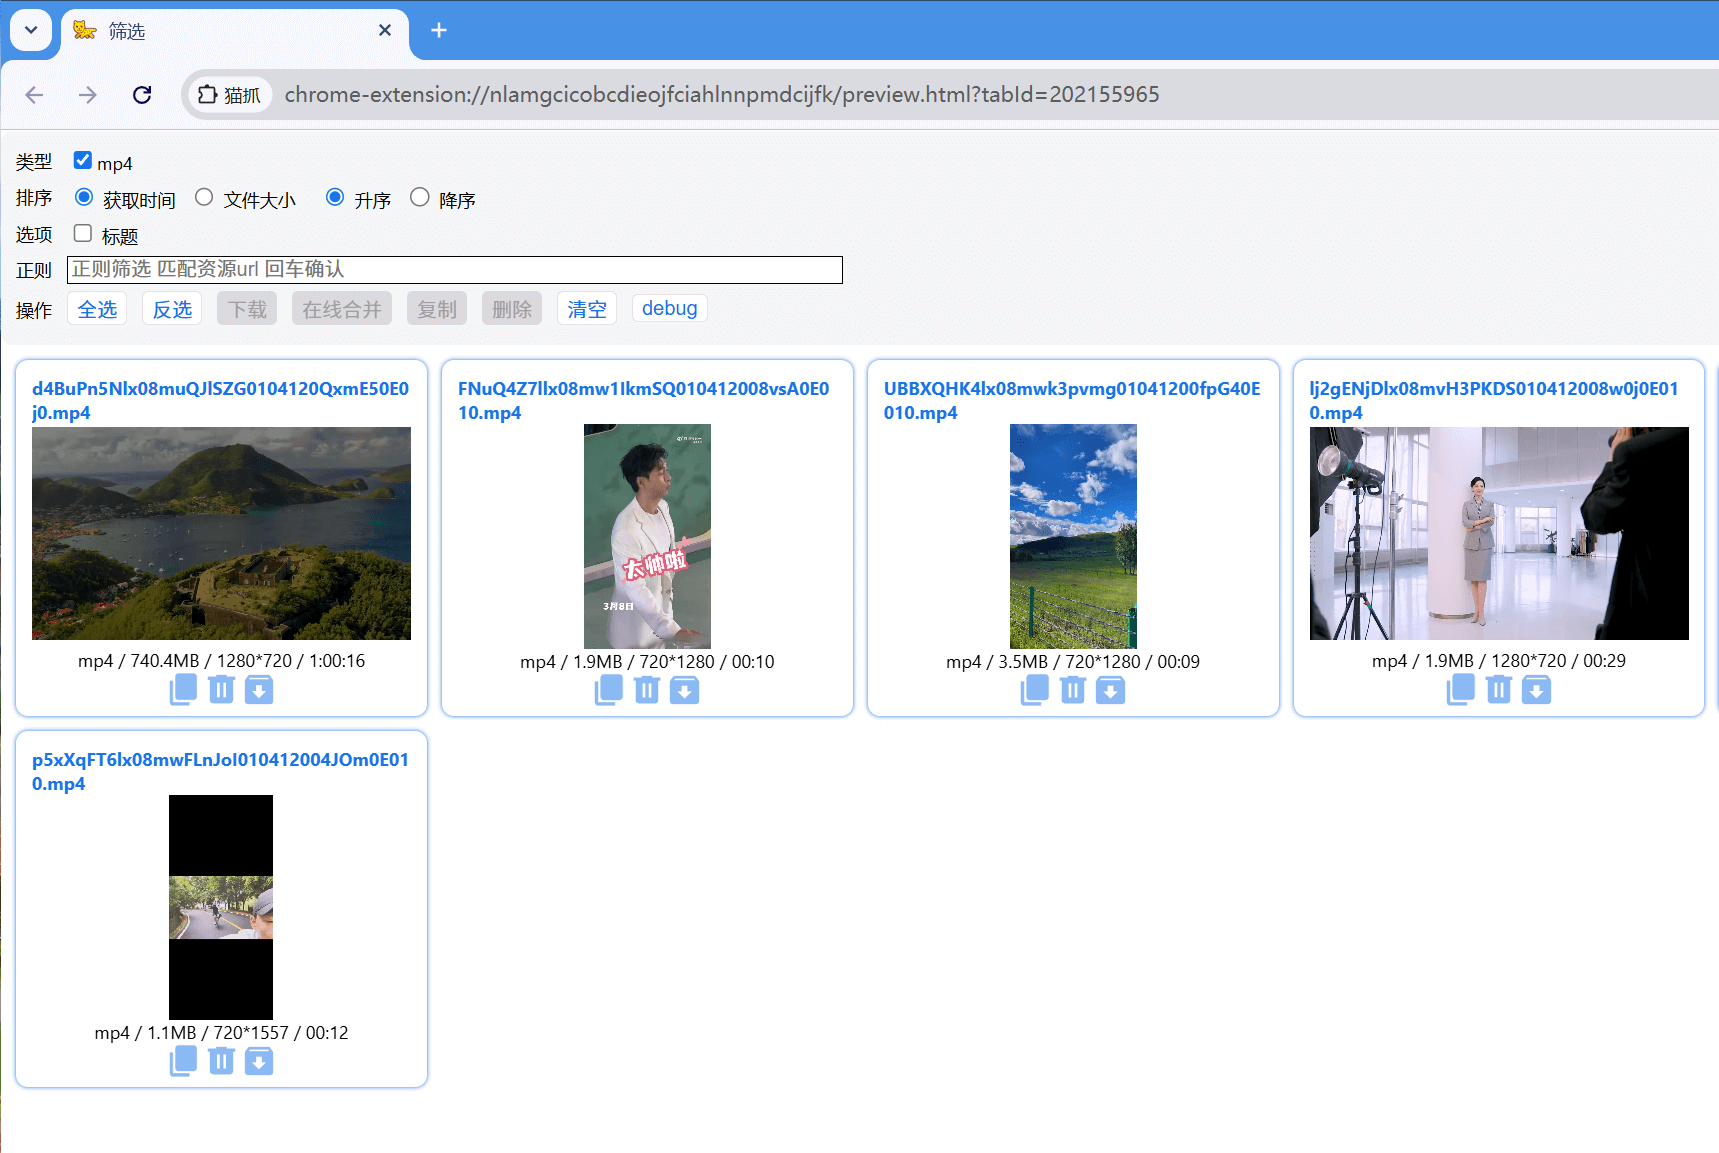
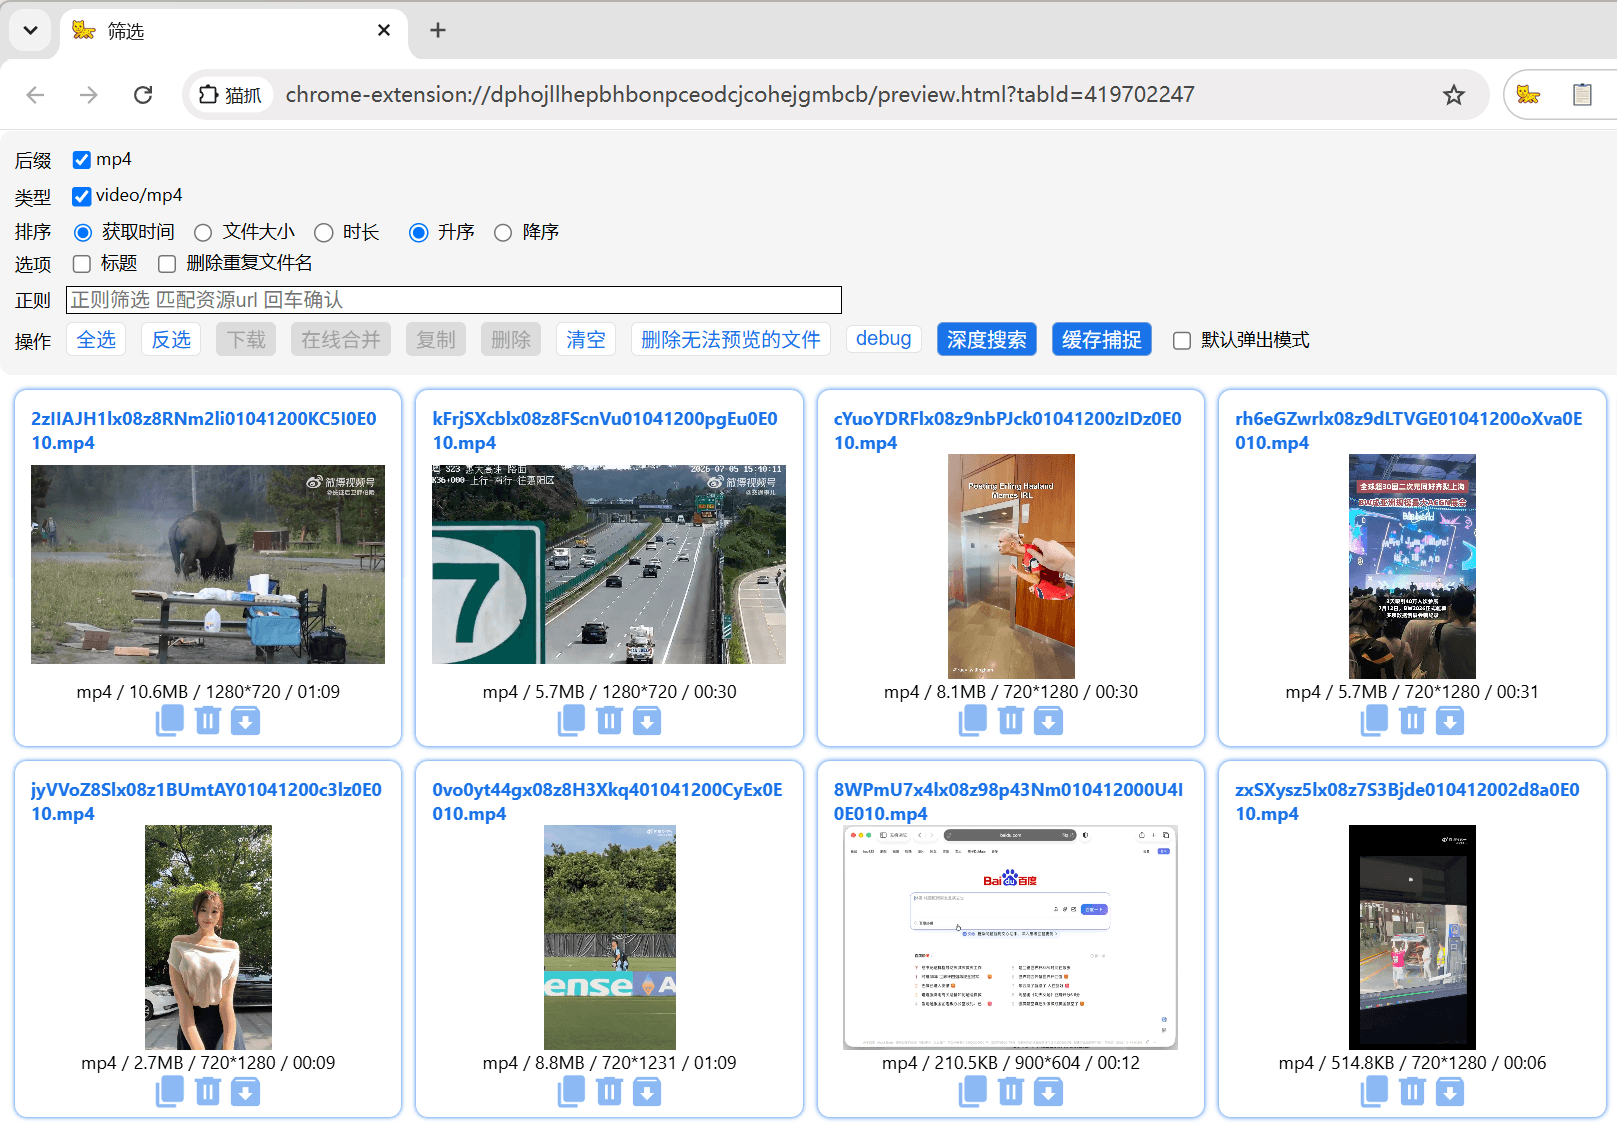
png

diff --git a/src/en/docs/m3u8parse.md b/src/en/docs/m3u8parse.md
@@ -104,6 +104,8 @@ After merging, directly send to the online ffmpeg website file area without auto
 
 ## Parser Entry
 
+![Parser Entry](/assets/m3u8index.png)
+
 Enter the parser entry via More Features - M3U8 Parser.
 
 Supports input of m3u8 links / m3u8 file content / list of segment URLs for parsing.

diff --git a/src/docs/m3u8parse.md b/src/docs/m3u8parse.md
@@ -103,6 +103,7 @@ m3u8合并下载 需要有足够的内存，否则可能会崩溃。建议使用
 合并后直接发送到在线ffmpeg网站文件区，不会自动进行合并下载操作。
 
 ## 解析器入口
+![解析器入口](/assets/m3u8index.png)
 
 通过 其他功能-M3U8解析器 进入解析器入口。
 